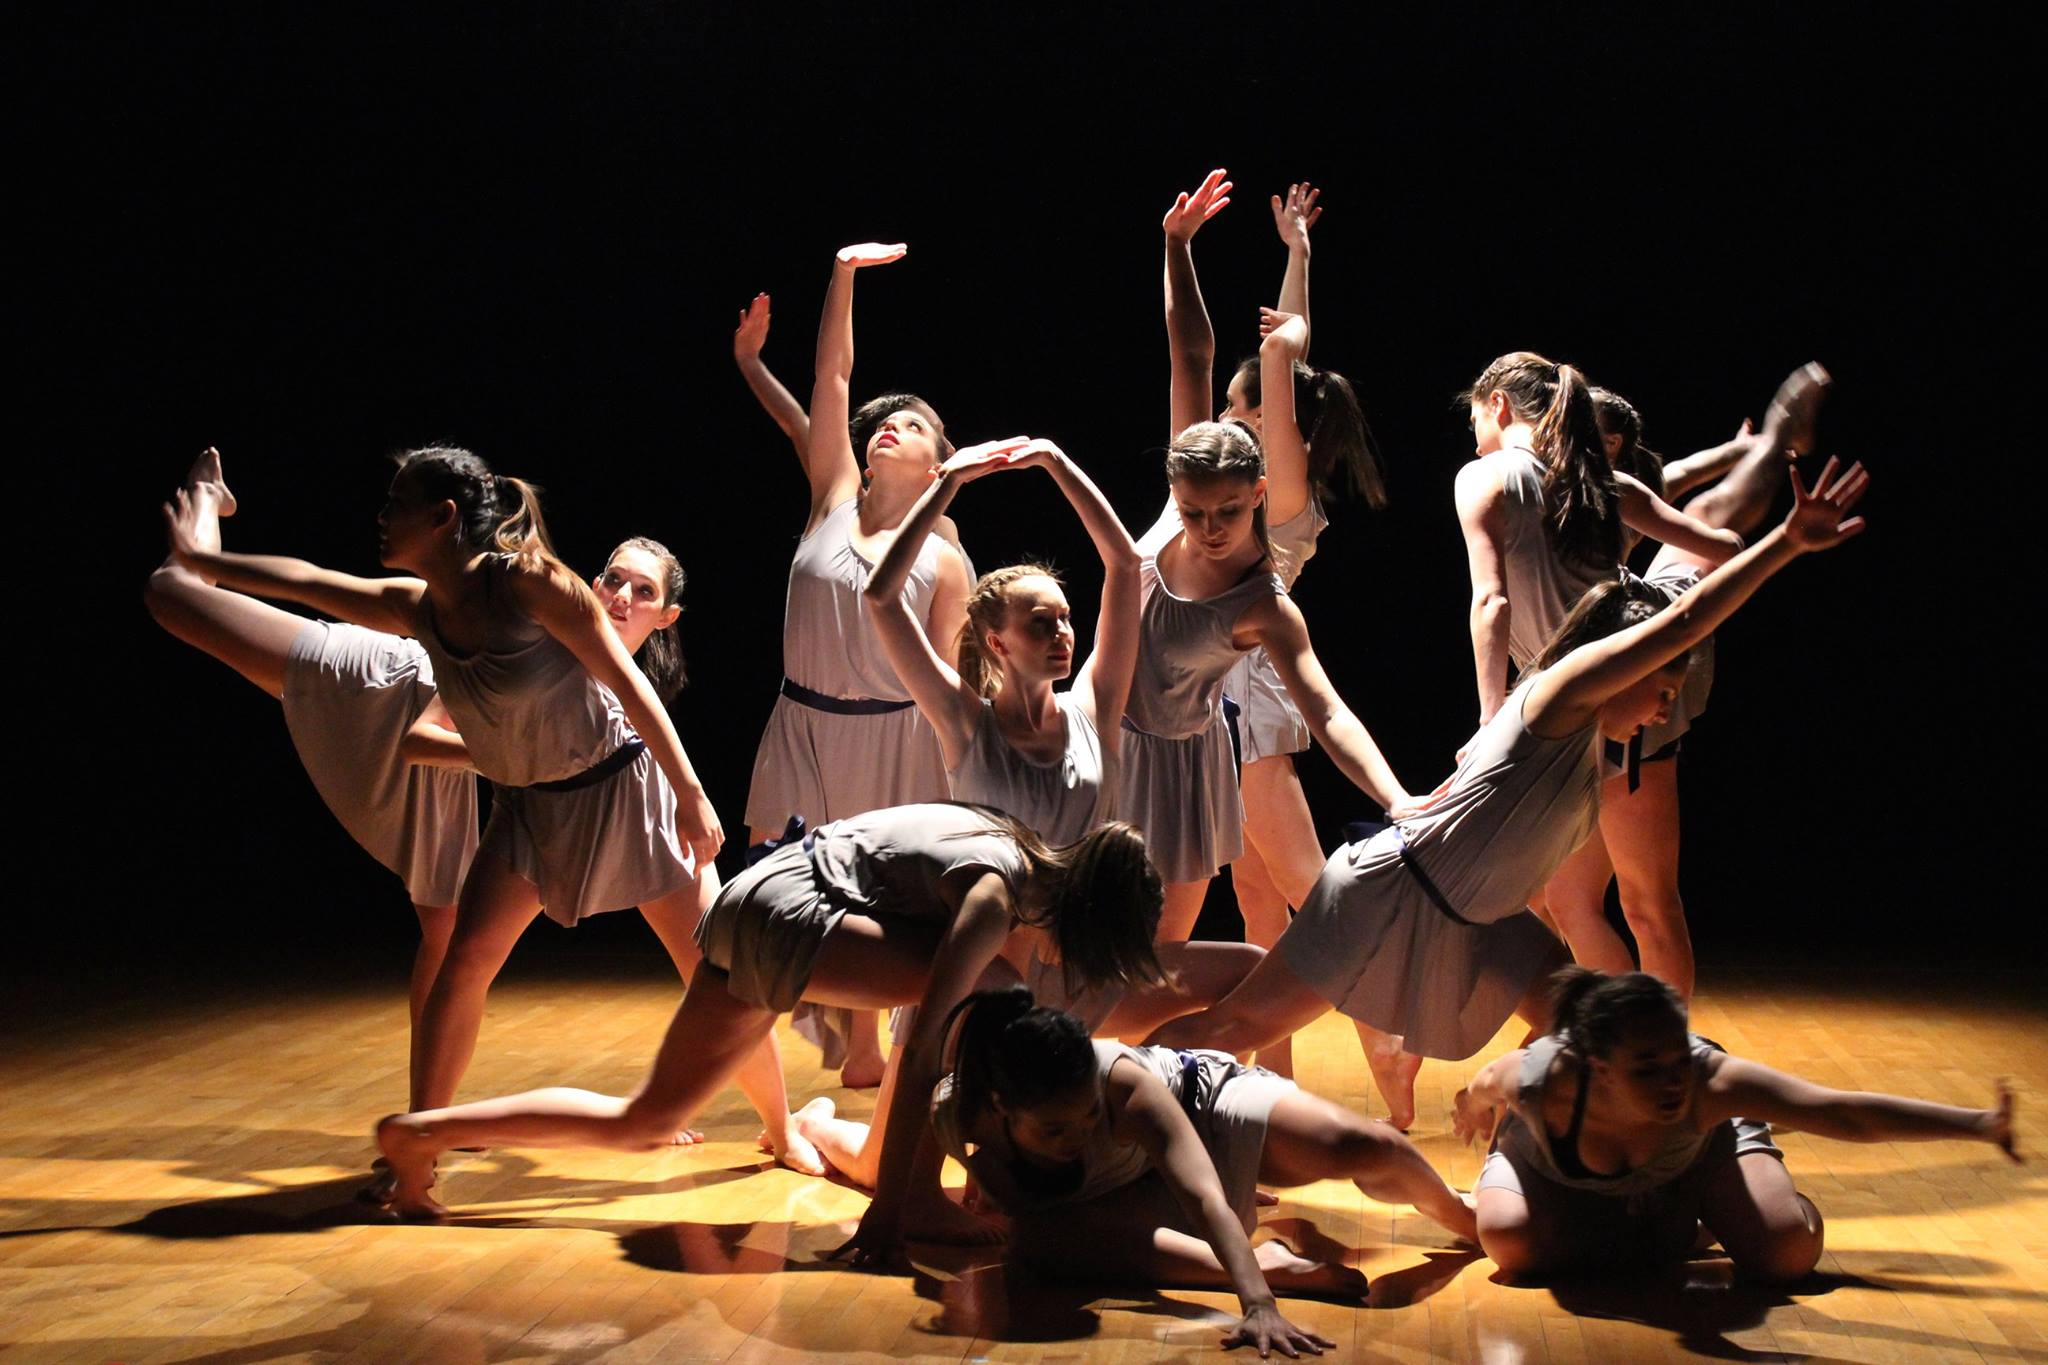
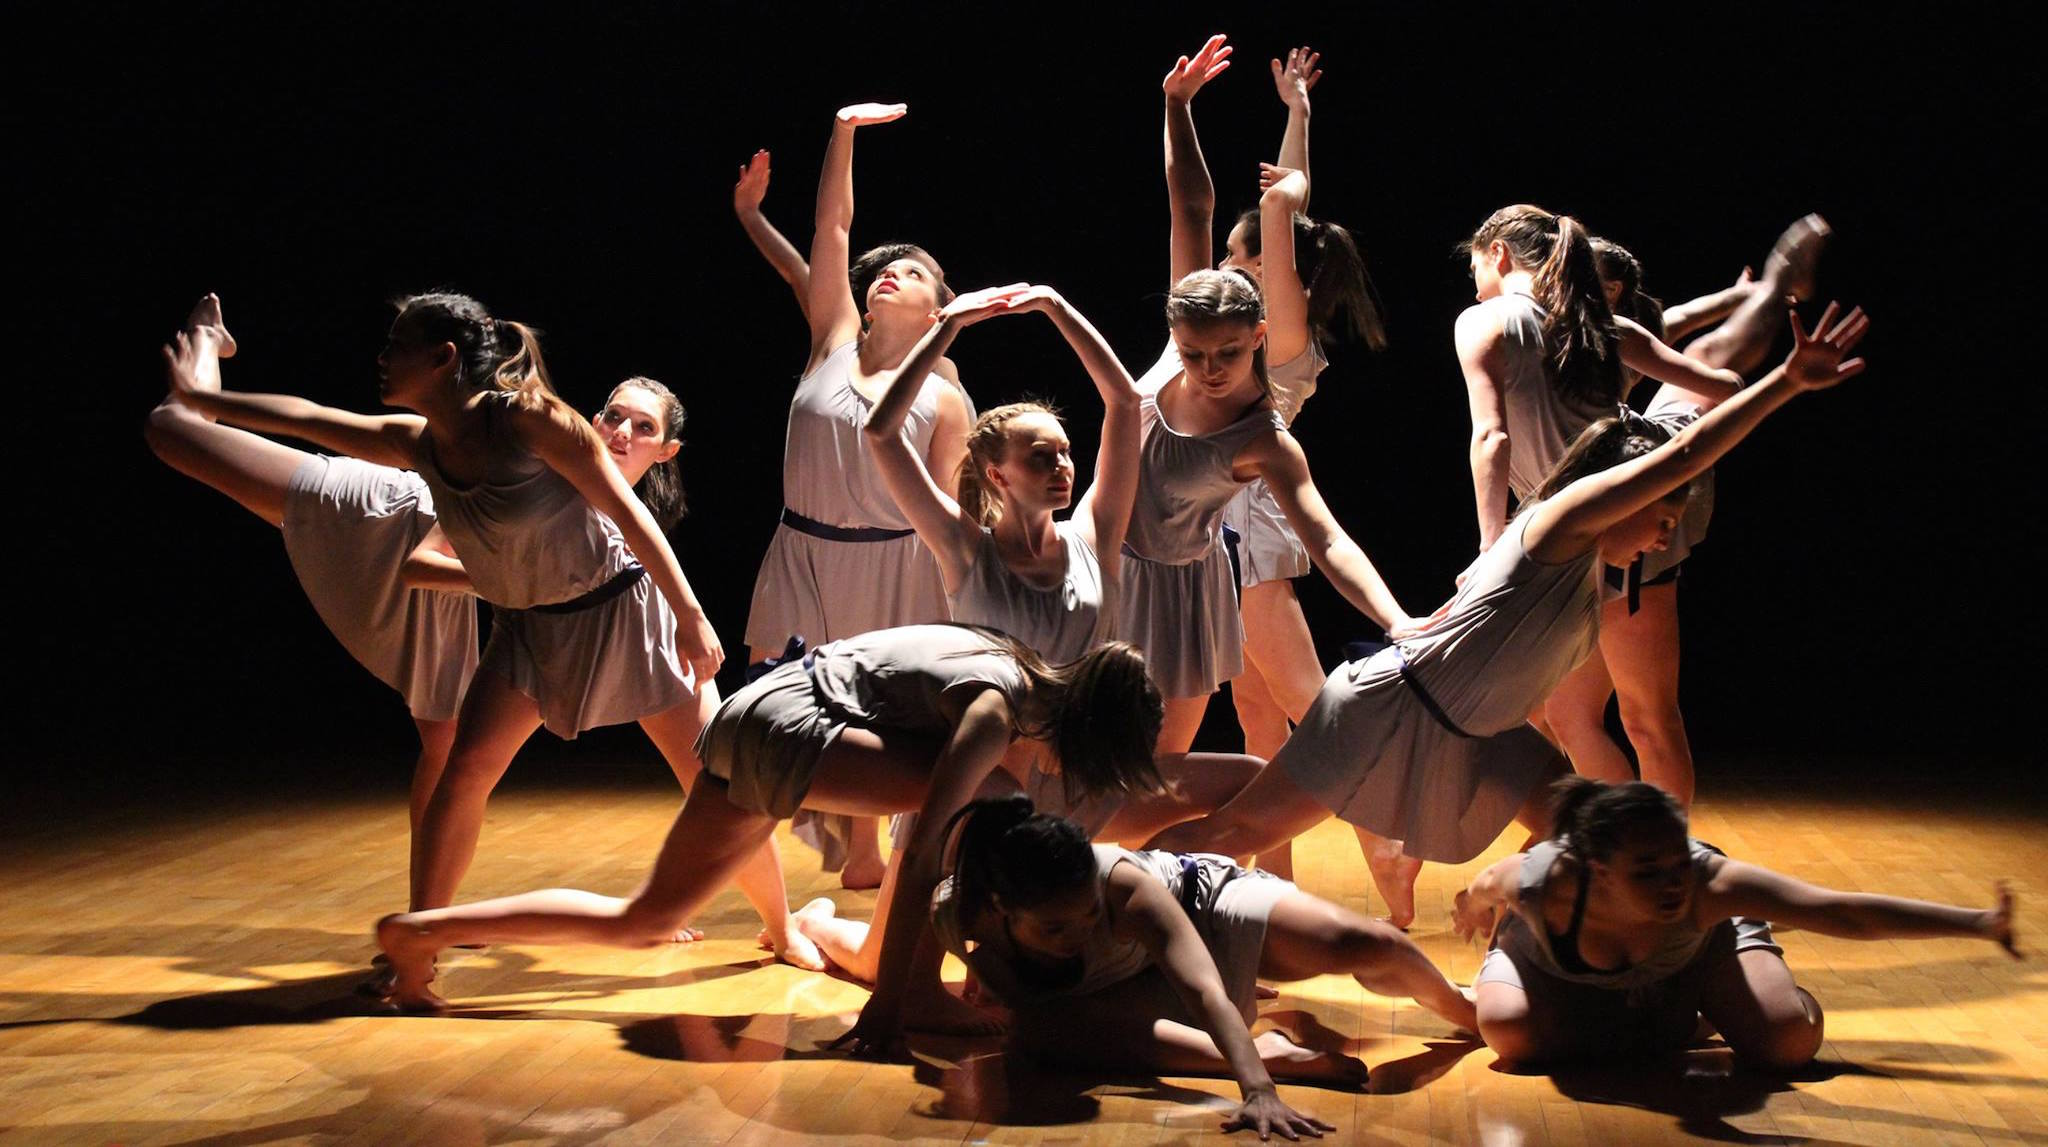
fixed image sizes

diff --git a/main.js b/main.js
@@ -34,9 +34,13 @@ $(document).ready(function() {
     });
 
     $('.slider').slick({
-        dots: true
+        dots: true,
+        autoplay: true,
+        autoplayspeed: 4000,
+        lazyLoad: 'ondemand',
+        speed: 700,
+        easing: 'ease-in',
     });
-
 });
 
 

diff --git a/index.css b/index.css
@@ -92,7 +92,7 @@ li {
 }
 
 #c5 {
-	line-height: 300%;
+	line-height: 225%;
 }
 
 .photoRow {
